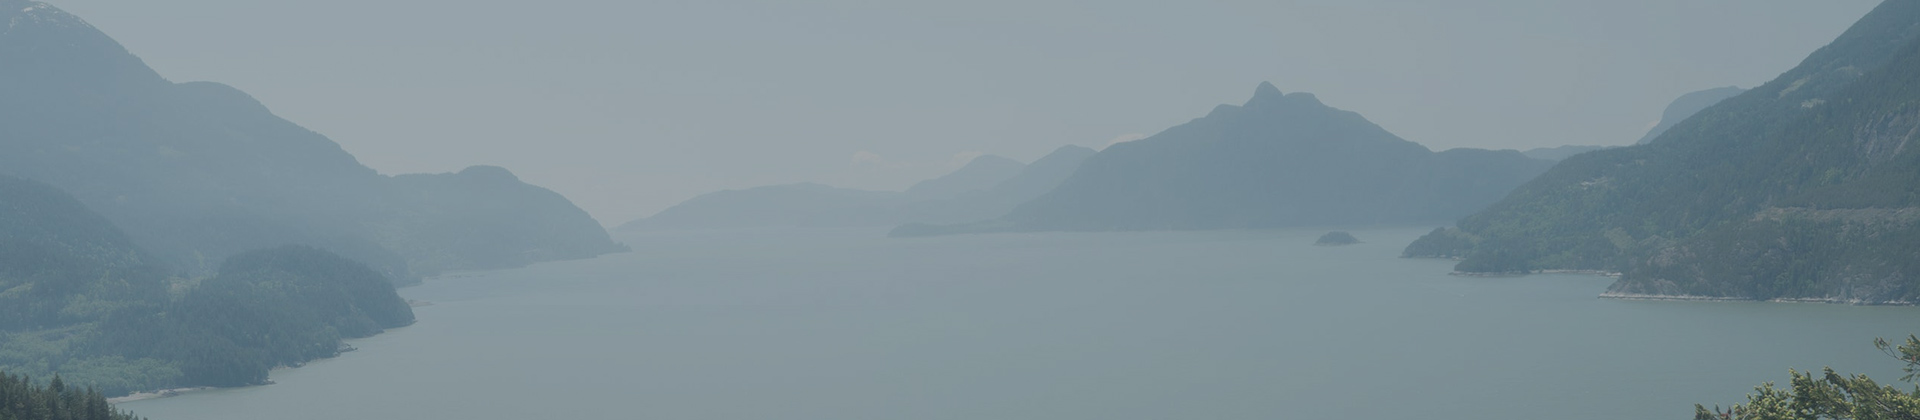
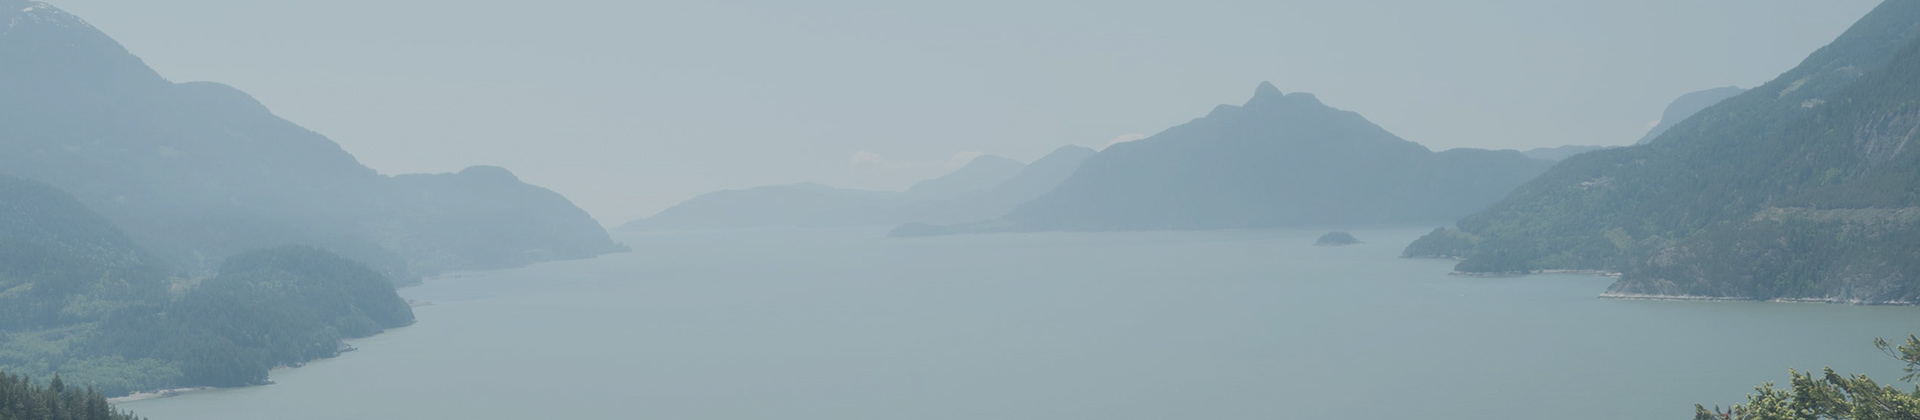
feat: All tasks up to now

diff --git a/src/pages/index.tsx b/src/pages/index.tsx
@@ -95,7 +95,7 @@ const Home = () => {
 
   return (
     <HomeLayoutStyled>
-      <FractionSwiper effect="fade">
+      <FractionSwiper effect="fade" className="pc">
         <CenterTitleAndButton
           className="Logo"
           imageSrc="/images/main/1.png"
@@ -201,8 +201,114 @@ const Home = () => {
         />
       </FractionSwiper>
 
+      <FractionSwiper effect="fade" className="mo">
+        <CenterTitleAndButton
+          className="Logo"
+          imageSrc="/images/main/1_mb.jpg"
+          title={
+            <ImageOverlayChild
+              src="/images/logo/logo.svg"
+              width="48rem"
+              height="4.875rem"
+              objectFit="contain"
+            />
+          }
+          description={
+            locale === 'en' ? (
+              <>
+                With our extensive experience, <br />
+                I’m ORGANIC will continue to grow
+                <p>as a company in harmony with nature.</p>
+              </>
+            ) : (
+              <>
+                아임오가닉은 풍부한 경험으로 <br />
+                자연과 함께하는 기업으로 나가겠습니다.
+              </>
+            )
+          }
+          buttonComponent={
+            <HoverArrowButton
+              text={locale === 'en' ? 'MORE' : 'MORE'}
+              color="#fff"
+              onClick={() => router.push('/brand')}
+            />
+          }
+        />
+        <CenterTitleAndButton
+          className="Logo"
+          imageSrc="/images/main/2_mb.jpg"
+          title={
+            <ImageOverlayChild
+              src="/images/logo/logo.svg"
+              width="48rem"
+              height="4.875rem"
+              objectFit="contain"
+            />
+          }
+          description={
+            locale === 'en' ? (
+              <>
+                <>
+                  With our extensive experience, <br />
+                  I’m ORGANIC will continue to grow
+                  <p>as a company in harmony with nature.</p>
+                </>
+              </>
+            ) : (
+              <>
+                아임오가닉은 풍부한 경험으로 <br />
+                자연과 함께하는 기업으로 나가겠습니다.
+              </>
+            )
+          }
+          buttonComponent={
+            <HoverArrowButton
+              text={locale === 'en' ? 'MORE' : 'MORE'}
+              color="#fff"
+              onClick={() => router.push('/brand')}
+            />
+          }
+        />
+        <CenterTitleAndButton
+          className="Logo"
+          imageSrc="/images/main/3_mb.jpg"
+          title={
+            <ImageOverlayChild
+              src="/images/logo/logo.svg"
+              width="48rem"
+              height="4.875rem"
+              objectFit="contain"
+            />
+          }
+          description={
+            locale === 'en' ? (
+              <>
+                <>
+                  With our extensive experience, <br />
+                  I’m ORGANIC will continue to grow
+                  <p>as a company in harmony with nature.</p>
+                </>
+              </>
+            ) : (
+              <>
+                아임오가닉은 풍부한 경험으로 <br />
+                자연과 함께하는 기업으로 나가겠습니다.
+              </>
+            )
+          }
+          buttonComponent={
+            <HoverArrowButton
+              text={locale === 'en' ? 'MORE' : 'MORE'}
+              color="#fff"
+              onClick={() => router.push('/brand')}
+            />
+          }
+        />
+      </FractionSwiper>
+
       <CenterTitleAndButton
-        className="Lavender"
+        className="Lavender pc"
         imageSrc="/images/main/9.jpg"
         title="LAVENDER"
         description={
@@ -217,8 +323,54 @@ const Home = () => {
       />
 
       <CenterTitleAndButton
-        className="Youtube"
+        className="Lavender mo"
+        imageSrc="/images/main/9_mb.jpg"
+        title="LAVENDER"
+        description={
+          locale === 'en' ? 'OUR FIRST NATURE' : '우리의 첫번째 자연,'
+        }
+        buttonComponent={
+          <HoverArrowButton
+            text={locale === 'en' ? 'MORE' : 'MORE'}
+            onClick={() => router.push('/lavender')}
+          />
+        }
+      />
+
+      <CenterTitleAndButton
+        className="Youtube pc"
         imageSrc="/images/main/0.jpg"
+        title={locale === 'en' ? 'YouTube' : '유튜브'}
+        description={
+          locale === 'en' ? (
+            'Check out the latest news on YouTube!'
+          ) : (
+            <>
+              유튜브에서 최신 소식을
+              <br />
+              확인해보세요!
+            </>
+          )
+        }
+        buttonComponent={
+          <YoutubeFilled
+            onMouseEnter={() => setIsHover(true)}
+            onMouseLeave={() => setIsHover(false)}
+            style={{
+              fontSize: '8rem',
+              color: isHover ? '#BC1515' : '#fff',
+              cursor: 'pointer',
+            }}
+            onClick={() =>
+              window.open('https://www.youtube.com/@user-vd6fe1ev3v')
+            }
+          />
+        }
+      />
+
+      <CenterTitleAndButton
+        className="Youtube mo"
+        imageSrc="/images/main/0_mb.jpg"
         title={locale === 'en' ? 'YouTube' : '유튜브'}
         description={
           locale === 'en' ? (
@@ -253,6 +405,14 @@ const Home = () => {
 };
 
 const HomeLayoutStyled = styled.div`
+  .pc {
+    display: block;
+  }
+
+  .mo {
+    display: none;
+  }
+
   .Logo {
     .center {
       .description {
@@ -287,6 +447,14 @@ const HomeLayoutStyled = styled.div`
 
   @media (max-width: 960px) {
     br {
+      display: block;
+    }
+
+    .pc {
+      display: none;
+    }
+
+    .mo {
       display: block;
     }
   }

diff --git a/src/contents/ProductDetailMobile.tsx b/src/contents/ProductDetailMobile.tsx
@@ -293,8 +293,8 @@ export const ProductDetailMobile = ({ headerHeight = 0, className }: Props) => {
       ),
       enHowToUse:
         'Take an appropriate amount of shampoo in your hand, lather it on your scalp and hair thoroughly, massage it evenly, and rinse it clean with lukewarm water.',
-      firstHeight: '793.5rem',
-      secondHeight: '0',
+      firstHeight: '223.125rem',
+      secondHeight: '205.625rem',
     },
   ];
 
@@ -408,9 +408,13 @@ export const ProductDetailMobile = ({ headerHeight = 0, className }: Props) => {
 
       {locale === 'ko' ? (
         <ImageOverlayChild
-          src="/images/store/all_ditail_header.jpg"
+          src={
+            id == 5
+              ? '/images/store/mask_ditail.jpg'
+              : '/images/store/all_ditail_header.jpg'
+          }
           width="100%"
-          height="90rem"
+          height={id == 5 ? '335.625rem' : '108.25rem'}
         />
       ) : (
         <ImageOverlayChild
@@ -450,37 +454,43 @@ export const ProductDetailMobile = ({ headerHeight = 0, className }: Props) => {
         />
       )}
 
-      <ImageOverlayChild
-        className="together__top"
-        src="/images/store/5.png"
-        width="100%"
-        height="70rem"
-        centerHorizontal
-      ></ImageOverlayChild>
+      {id != 5 && (
+        <>
+          <ImageOverlayChild
+            className="together__top"
+            src="/images/store/5.png"
+            width="100%"
+            height="70rem"
+            centerHorizontal
+          ></ImageOverlayChild>
 
-      <div className="text">
-        <h1>{locale === 'ko' ? '함께 사용해보세요' : 'USE TOGETHER WITH'}</h1>
+          <div className="text">
+            <h1>
+              {locale === 'ko' ? '함께 사용해보세요' : 'USE TOGETHER WITH'}
+            </h1>
 
-        <h2 className="space">
-          {locale === 'ko'
-            ? '두피 청정 라벤더 솔루션'
-            : 'SCALP CLEAN LAVENDER SOLUTION'}
-        </h2>
+            <h2 className="space">
+              {locale === 'ko'
+                ? '두피 청정 라벤더 솔루션'
+                : 'SCALP CLEAN LAVENDER SOLUTION'}
+            </h2>
 
-        <div className="line" />
+            <div className="line" />
 
-        <div className="step__container">
-          {Object.entries(step).map(([key, value]) => (
-            <StepTypography
-              key={key}
-              step={parseInt(key)}
-              title={locale === 'ko' ? value.title : value.enTitle}
-              id={value.router}
-              content={locale === 'ko' ? value.content : value.enContent}
-            />
-          ))}
-        </div>
-      </div>
+            <div className="step__container">
+              {Object.entries(step).map(([key, value]) => (
+                <StepTypography
+                  key={key}
+                  step={parseInt(key)}
+                  title={locale === 'ko' ? value.title : value.enTitle}
+                  id={value.router}
+                  content={locale === 'ko' ? value.content : value.enContent}
+                />
+              ))}
+            </div>
+          </div>
+        </>
+      )}
     </ProductDetailMobileStyle>
   );
 };

diff --git a/src/contents/ProductDetail.tsx b/src/contents/ProductDetail.tsx
@@ -306,8 +306,8 @@ export const ProductDetail = ({ headerHeight = 0, className }: Props) => {
           absorbed.
         </>
       ),
-      firstHeight: '793.5rem',
-      secondHeight: '0',
+      firstHeight: '233.125rem',
+      secondHeight: '215.625rem',
     },
   ];
 
@@ -328,9 +328,13 @@ export const ProductDetail = ({ headerHeight = 0, className }: Props) => {
 
           {locale === 'ko' ? (
             <ImageOverlayChild
-              src="/images/store/all_ditail_header.jpg"
+              src={
+                id == 5
+                  ? '/images/store/mask_ditail.jpg'
+                  : '/images/store/all_ditail_header.jpg'
+              }
               width="100%"
-              height="108.25rem"
+              height={id == 5 ? '335.625rem' : '108.25rem'}
             />
           ) : (
             <ImageOverlayChild

diff --git a/src/components/Swiper/FractionSwiper.tsx b/src/components/Swiper/FractionSwiper.tsx
@@ -13,6 +13,7 @@ interface Props {
   autoplay?: boolean;
   loop?: boolean;
   effect?: 'slide' | 'fade';
+  className?: string;
 }
 
 export const FractionSwiper = ({
@@ -20,9 +21,10 @@ export const FractionSwiper = ({
   autoplay = true,
   loop = true,
   effect = 'slide',
+  className,
 }: Props) => {
   return (
-    <FractionSwiperStyled>
+    <FractionSwiperStyled className={className}>
       <Swiper
         modules={[Autoplay, EffectFade, Navigation, Pagination]}
         loop={loop}
@@ -33,7 +35,6 @@ export const FractionSwiper = ({
           nextEl: '.next__button',
           prevEl: '.prev__button',
         }}
-        className="mySwiper"
       >
         {Array.isArray(children) ? (
           children.map((child, index) => (
